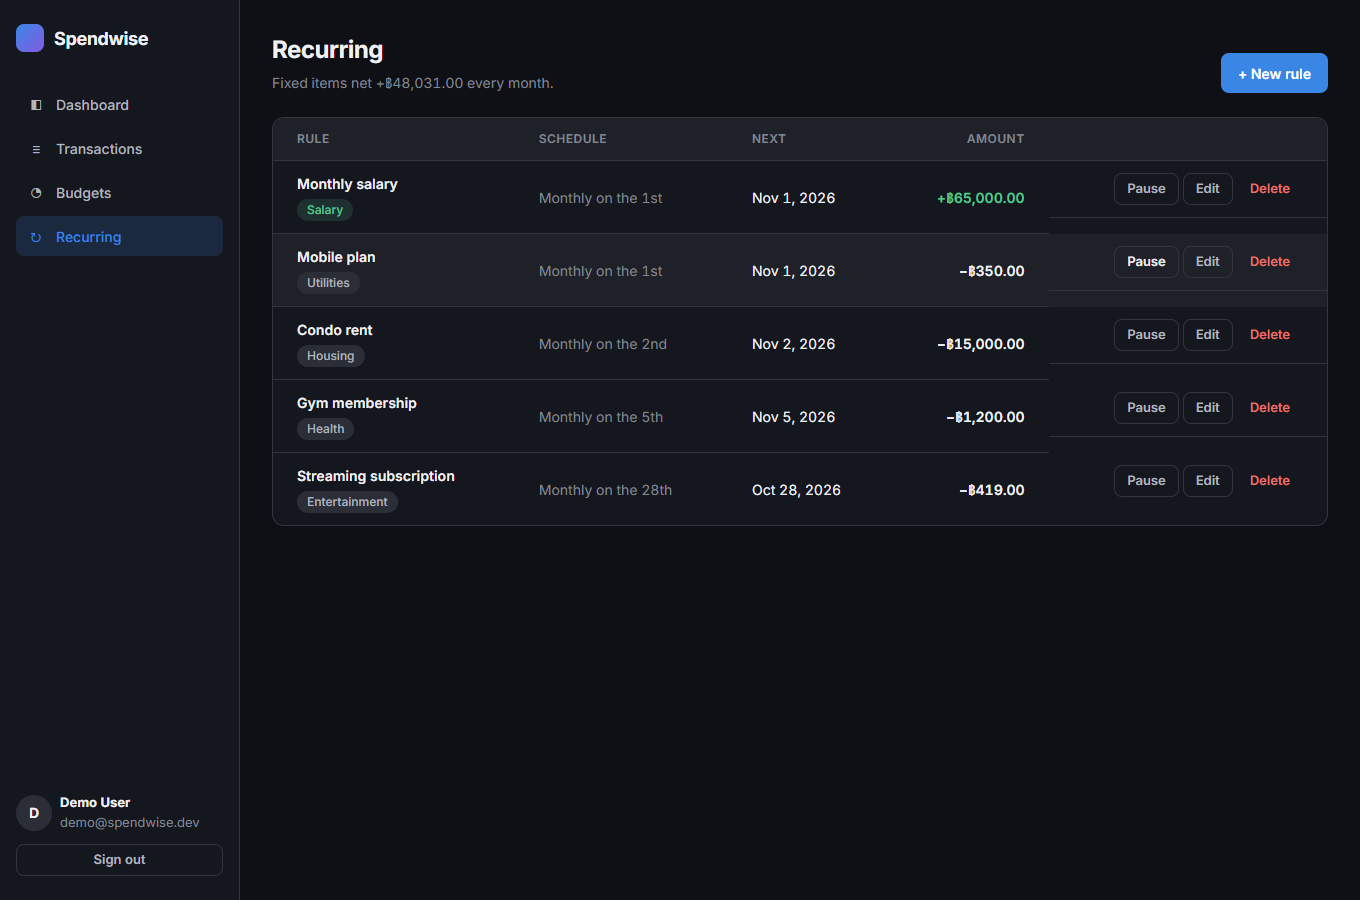
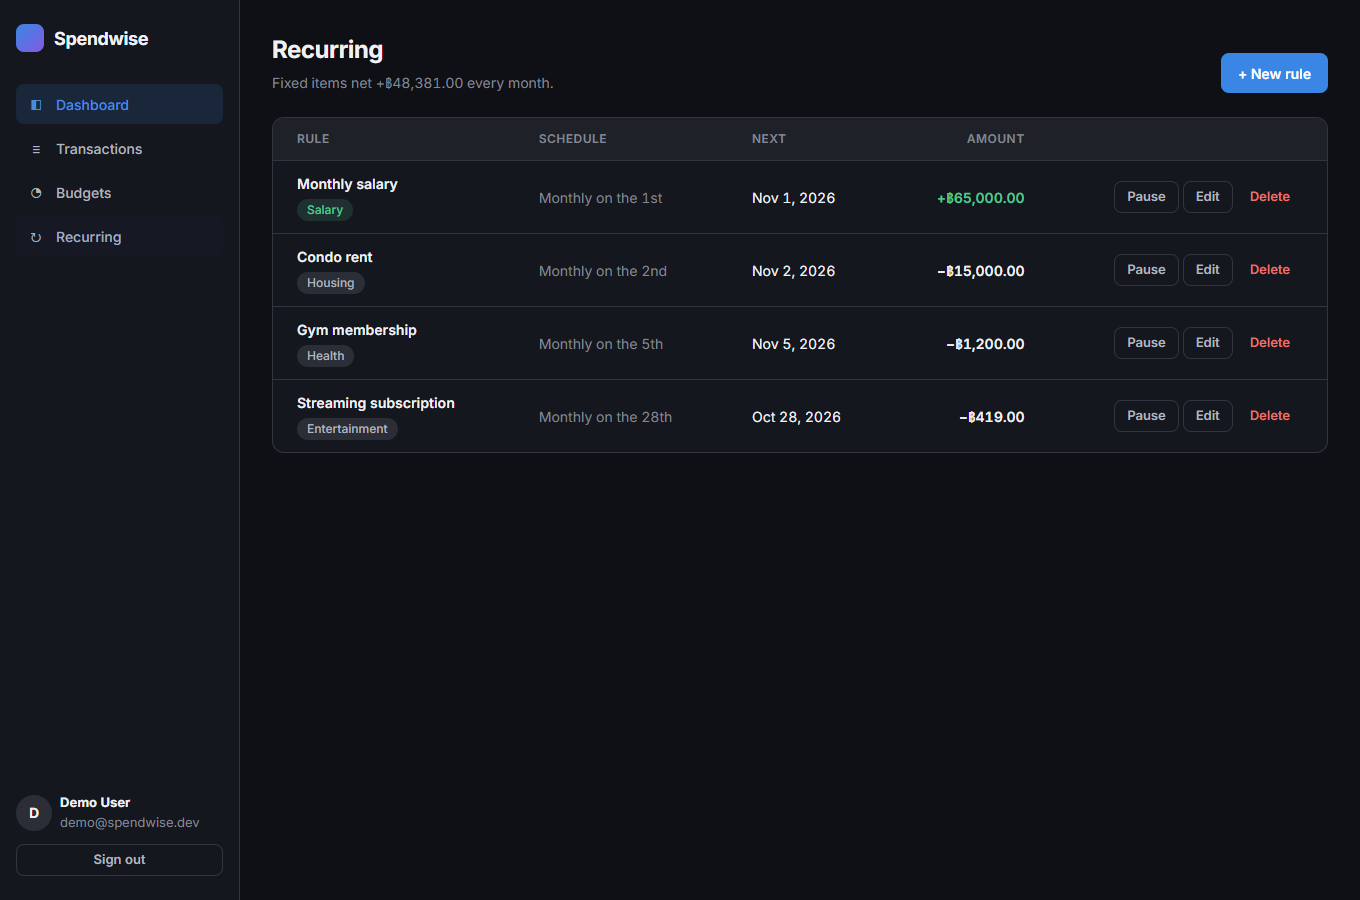
fix: keep table action cells in table layout so row borders align

diff --git a/client/src/styles.css b/client/src/styles.css
@@ -793,9 +793,12 @@ a:hover {
 }
 
 .row-actions {
-  display: flex;
-  justify-content: flex-end;
-  gap: var(--space-1);
+  text-align: right;
+  white-space: nowrap;
+}
+
+.row-actions .button + .button {
+  margin-left: var(--space-1);
 }
 
 .amount {
